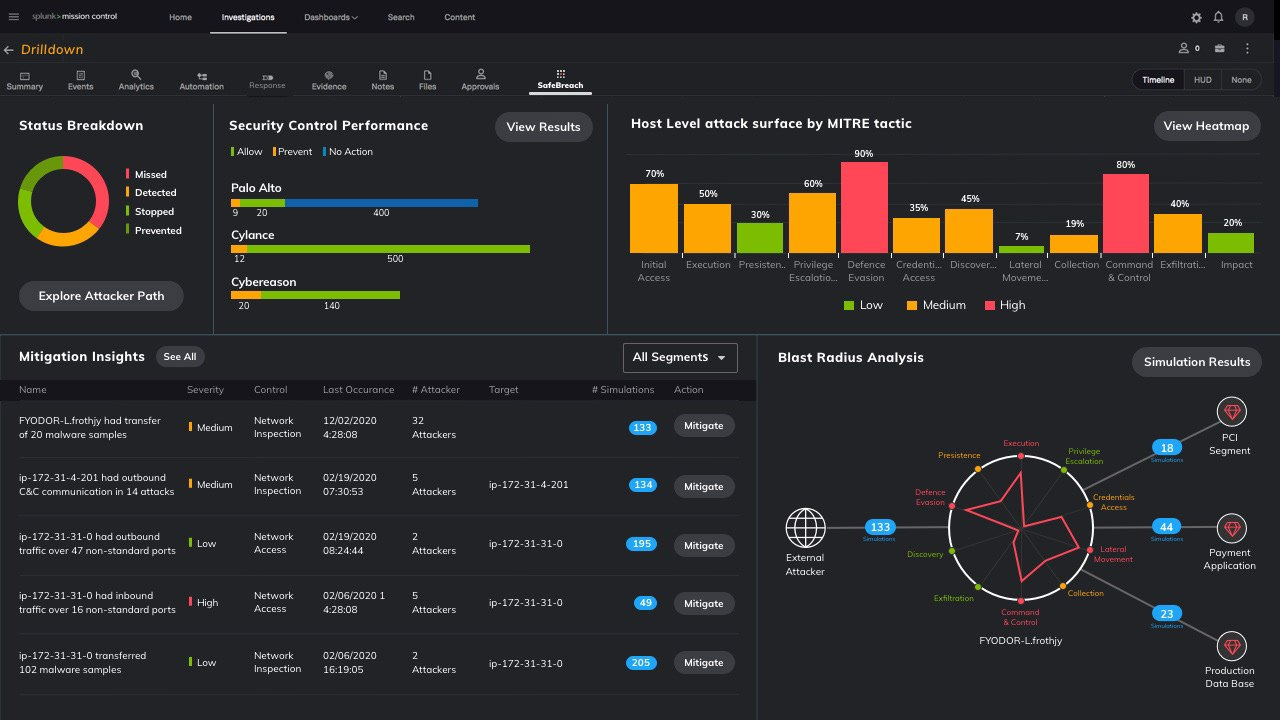
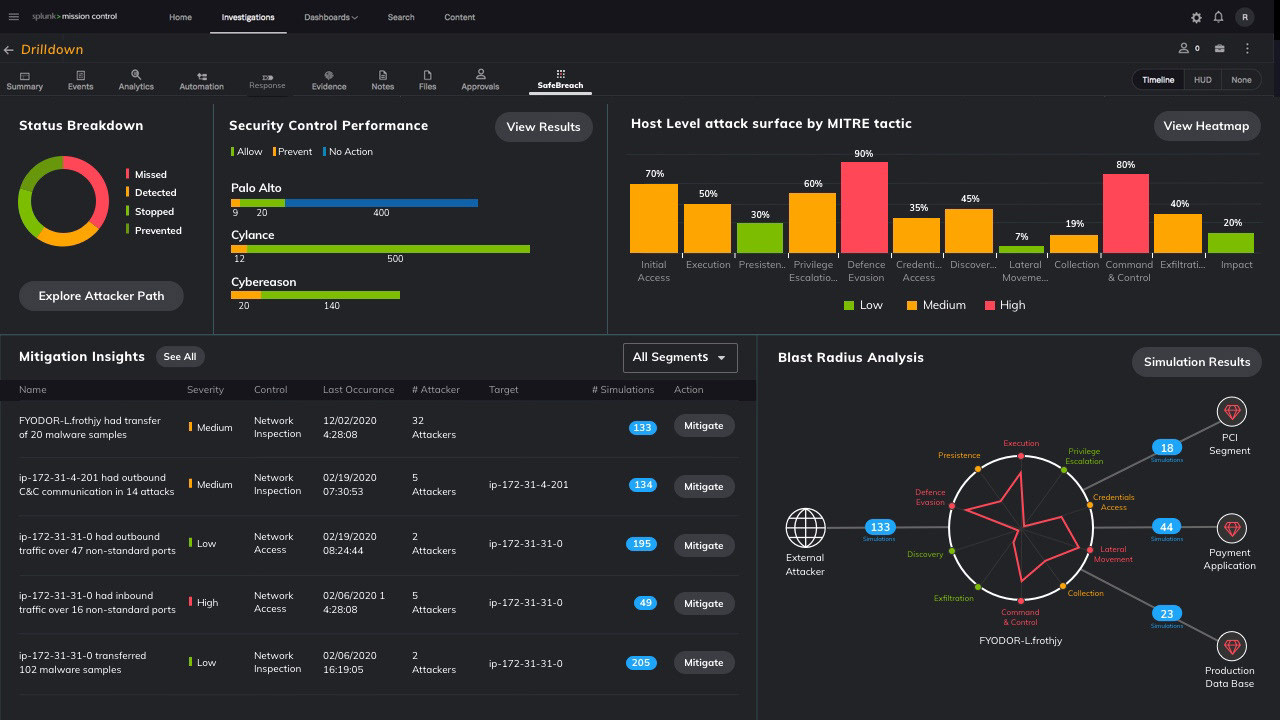
Sharper images: re-export at native resolution without chroma subsampling
Wix and SafeBreach screens now use the full resolution of the source files.
Datagen crops are re-cut from the source board and shown no larger than it supports.

Claude-Session: https://claude.ai/code/session_01LgKwuaBBtksS3YnWrBaEuX

diff --git a/safebreach/index.html b/safebreach/index.html
@@ -46,7 +46,7 @@
   </section>
 
   <div class="wrap" style="padding-bottom:72px">
-    <figure class="shot" style="margin:0"><img src="../img/safebreach/running.jpg" width="1600" height="899" alt="SafeBreach main screen while a test runs: a dark header with live status (36% missed, 24% detected, 18% stopped, 15% prevented), security controls by category with their tools, top attack types with counts, and the list of simulators. Below, the test timeline and the upcoming tests queue."></figure>
+    <figure class="shot" style="margin:0"><img src="../img/safebreach/running.jpg" width="1920" height="1079" alt="SafeBreach main screen while a test runs: a dark header with live status (36% missed, 24% detected, 18% stopped, 15% prevented), security controls by category with their tools, top attack types with counts, and the list of simulators. Below, the test timeline and the upcoming tests queue."></figure>
     <figcaption>The main screen while a test is running.</figcaption>
   </div>
 
@@ -75,8 +75,8 @@
         <span class="tag">01.2</span><span class="muted small">Before and between tests</span>
         <h3>States, not just a happy path</h3>
         <div class="grid-2">
-          <figure style="margin:0"><div class="shot" style="padding:14px"><img src="../img/safebreach/up-next.jpg" width="1600" height="902" loading="lazy" alt="Main screen before a test starts: 'Up Next: Infiltration Europe' with a countdown, a large Start Now button, and the categories, attack types and simulators that will be tested, shown dimmed."></div><figcaption><strong style="color:var(--ink)">Up next.</strong> Before a test starts, the same layout previews what will be tested, with a countdown and Start Now.</figcaption></figure>
-          <figure style="margin:0"><div class="shot" style="padding:14px"><img src="../img/safebreach/on-scroll.jpg" width="1600" height="902" loading="lazy" alt="Main screen after scrolling: the header collapses into one bar with the running test's name, simulation count, timer, pause and stop. The queue ends with 'You've reached the end of the queue' and three shortcuts: Test your grid, Plan security tests, Create custom attacks."></div><figcaption><strong style="color:var(--ink)">On scroll.</strong> The header collapses to one bar with the running test and its controls. The end of the queue offers three next steps: test, plan or create.</figcaption></figure>
+          <figure style="margin:0"><div class="shot" style="padding:14px"><img src="../img/safebreach/up-next.jpg" width="1920" height="1082" loading="lazy" alt="Main screen before a test starts: 'Up Next: Infiltration Europe' with a countdown, a large Start Now button, and the categories, attack types and simulators that will be tested, shown dimmed."></div><figcaption><strong style="color:var(--ink)">Up next.</strong> Before a test starts, the same layout previews what will be tested, with a countdown and Start Now.</figcaption></figure>
+          <figure style="margin:0"><div class="shot" style="padding:14px"><img src="../img/safebreach/on-scroll.jpg" width="1920" height="1082" loading="lazy" alt="Main screen after scrolling: the header collapses into one bar with the running test's name, simulation count, timer, pause and stop. The queue ends with 'You've reached the end of the queue' and three shortcuts: Test your grid, Plan security tests, Create custom attacks."></div><figcaption><strong style="color:var(--ink)">On scroll.</strong> The header collapses to one bar with the running test and its controls. The end of the queue offers three next steps: test, plan or create.</figcaption></figure>
         </div>
       </article>
     </div>

diff --git a/datagen/index.html b/datagen/index.html
@@ -50,7 +50,7 @@
 
   <div class="wrap" style="padding-bottom:72px">
     <figure class="shot" style="margin:0">
-      <img src="../img/datagen/cover.jpg" width="654" height="544" alt="The Datagen platform home screen on a desktop monitor: two cards asking what to generate today, and a table of dataset requests." style="width:min(100%,560px)">
+      <img src="../img/datagen/cover.jpg" width="654" height="544" alt="The Datagen platform home screen on a desktop monitor: two cards asking what to generate today, and a table of dataset requests." style="width:min(100%,440px)">
     </figure>
     <figcaption>The Datagen self-serve platform.</figcaption>
   </div>
@@ -89,7 +89,7 @@
           <p>One product couldn’t serve all three. The research led to three connected tools: the <strong>self-serve platform</strong>, the <strong>SDK</strong>, and the <strong>SDK documentation</strong>. I designed the platform. I had very little to do with the SDK’s design, but I had to know how to use it and reference it in the platform, so people could move from one to the other.</p>
         </div>
       </div>
-      <figure style="margin:32px 0 0"><div class="shot"><img src="../img/datagen/tools.jpg" width="1094" height="250" loading="lazy" alt="Three screens side by side: the self-serve platform, a code editor using the SDK, and the SDK documentation site."></div><figcaption>Self-serve platform, SDK, SDK documentation.</figcaption></figure>
+      <figure style="margin:32px 0 0"><div class="shot"><img src="../img/datagen/tools.jpg" width="1094" height="250" loading="lazy" style="width:min(100%,720px)" alt="Three screens side by side: the self-serve platform, a code editor using the SDK, and the SDK documentation site."></div><figcaption>Self-serve platform, SDK, SDK documentation.</figcaption></figure>
     </div>
   </section>
 
@@ -151,7 +151,7 @@
         </div>
       </article>
 
-      <figure style="margin:56px 0 0"><div class="shot"><img src="../img/datagen/wireframes.jpg" width="1394" height="928" loading="lazy" alt="A spread of high-fidelity wireframes of the platform's screens around a laptop."></div><figcaption>High-fidelity wireframes.</figcaption></figure>
+      <figure style="margin:56px 0 0"><div class="shot"><img src="../img/datagen/wireframes.jpg" width="1394" height="928" loading="lazy" style="width:min(100%,880px)" alt="A spread of high-fidelity wireframes of the platform's screens around a laptop."></div><figcaption>High-fidelity wireframes.</figcaption></figure>
     </div>
   </section>
 

diff --git a/wix-ai-code-assistant/index.html b/wix-ai-code-assistant/index.html
@@ -46,7 +46,7 @@
 
   <div class="wrap" style="padding-bottom:72px">
     <figure class="shot" style="margin:0">
-      <img src="../img/hero-editor.jpg" width="1600" height="935" alt="The Wix Studio editor with the AI Code Assistant panel open on the left. A user has asked it to show or hide an element when another element is clicked, and the assistant is analyzing the request.">
+      <img src="../img/hero-editor.jpg" width="2323" height="1358" alt="The Wix Studio editor with the AI Code Assistant panel open on the left. A user has asked it to show or hide an element when another element is clicked, and the assistant is analyzing the request.">
     </figure>
     <figcaption>The assistant lives in the Velo code panel of the editor, next to the site being edited.</figcaption>
   </div>
@@ -264,7 +264,7 @@
 
         <div class="status" style="margin-top:28px"><b>What I’d change</b><span>The first error still tells people to go to the Problems tab and fix it manually. That works for a developer, but it’s the kind of dead end my own research warned about for designers. The next version should offer a guided step, or a way to hand the problem to a developer.</span></div>
 
-        <figure style="margin:32px 0 0"><div class="shot"><img src="../img/m4-ide.jpg" width="1400" height="807" loading="lazy" alt="The error list shown next to the code editor, with the project file tree and an open TypeScript file."></div><figcaption>The errors in context, next to the code editor.</figcaption></figure>
+        <figure style="margin:32px 0 0"><div class="shot"><img src="../img/m4-ide.jpg" width="1736" height="1001" loading="lazy" alt="The error list shown next to the code editor, with the project file tree and an open TypeScript file."></div><figcaption>The errors in context, next to the code editor.</figcaption></figure>
       </article>
     </div>
   </section>

diff --git a/index.html b/index.html
@@ -43,7 +43,7 @@
       </div>
 
       <a class="feature" href="wix-ai-code-assistant/">
-        <div class="pic"><img src="img/hero-editor.jpg" width="1600" height="935" alt="The AI Code Assistant panel open inside the Wix Studio editor, next to a site being edited."></div>
+        <div class="pic"><img src="img/hero-editor.jpg" width="2323" height="1358" alt="The AI Code Assistant panel open inside the Wix Studio editor, next to a site being edited."></div>
         <div class="body">
           <div class="meta">Wix Studio · Senior Product Designer · 2025</div>
           <h3>Making AI code safe for people who don’t code</h3>
@@ -70,7 +70,7 @@
           <span class="go">Read the case study →</span>
         </a>
         <a class="role" href="safebreach/">
-          <div class="pic"><img src="img/safebreach/running.jpg" width="1600" height="899" loading="lazy" alt="SafeBreach main screen while a test runs: live status, security controls by category, top attack types and simulators."></div>
+          <div class="pic"><img src="img/safebreach/running.jpg" width="1920" height="1079" loading="lazy" alt="SafeBreach main screen while a test runs: live status, security controls by category, top attack types and simulators."></div>
           <div class="meta">SafeBreach · UX/UI Designer · 2019–2021</div>
           <h3>Data-heavy workflows for a cybersecurity (BAS) platform</h3>
           <ul>
